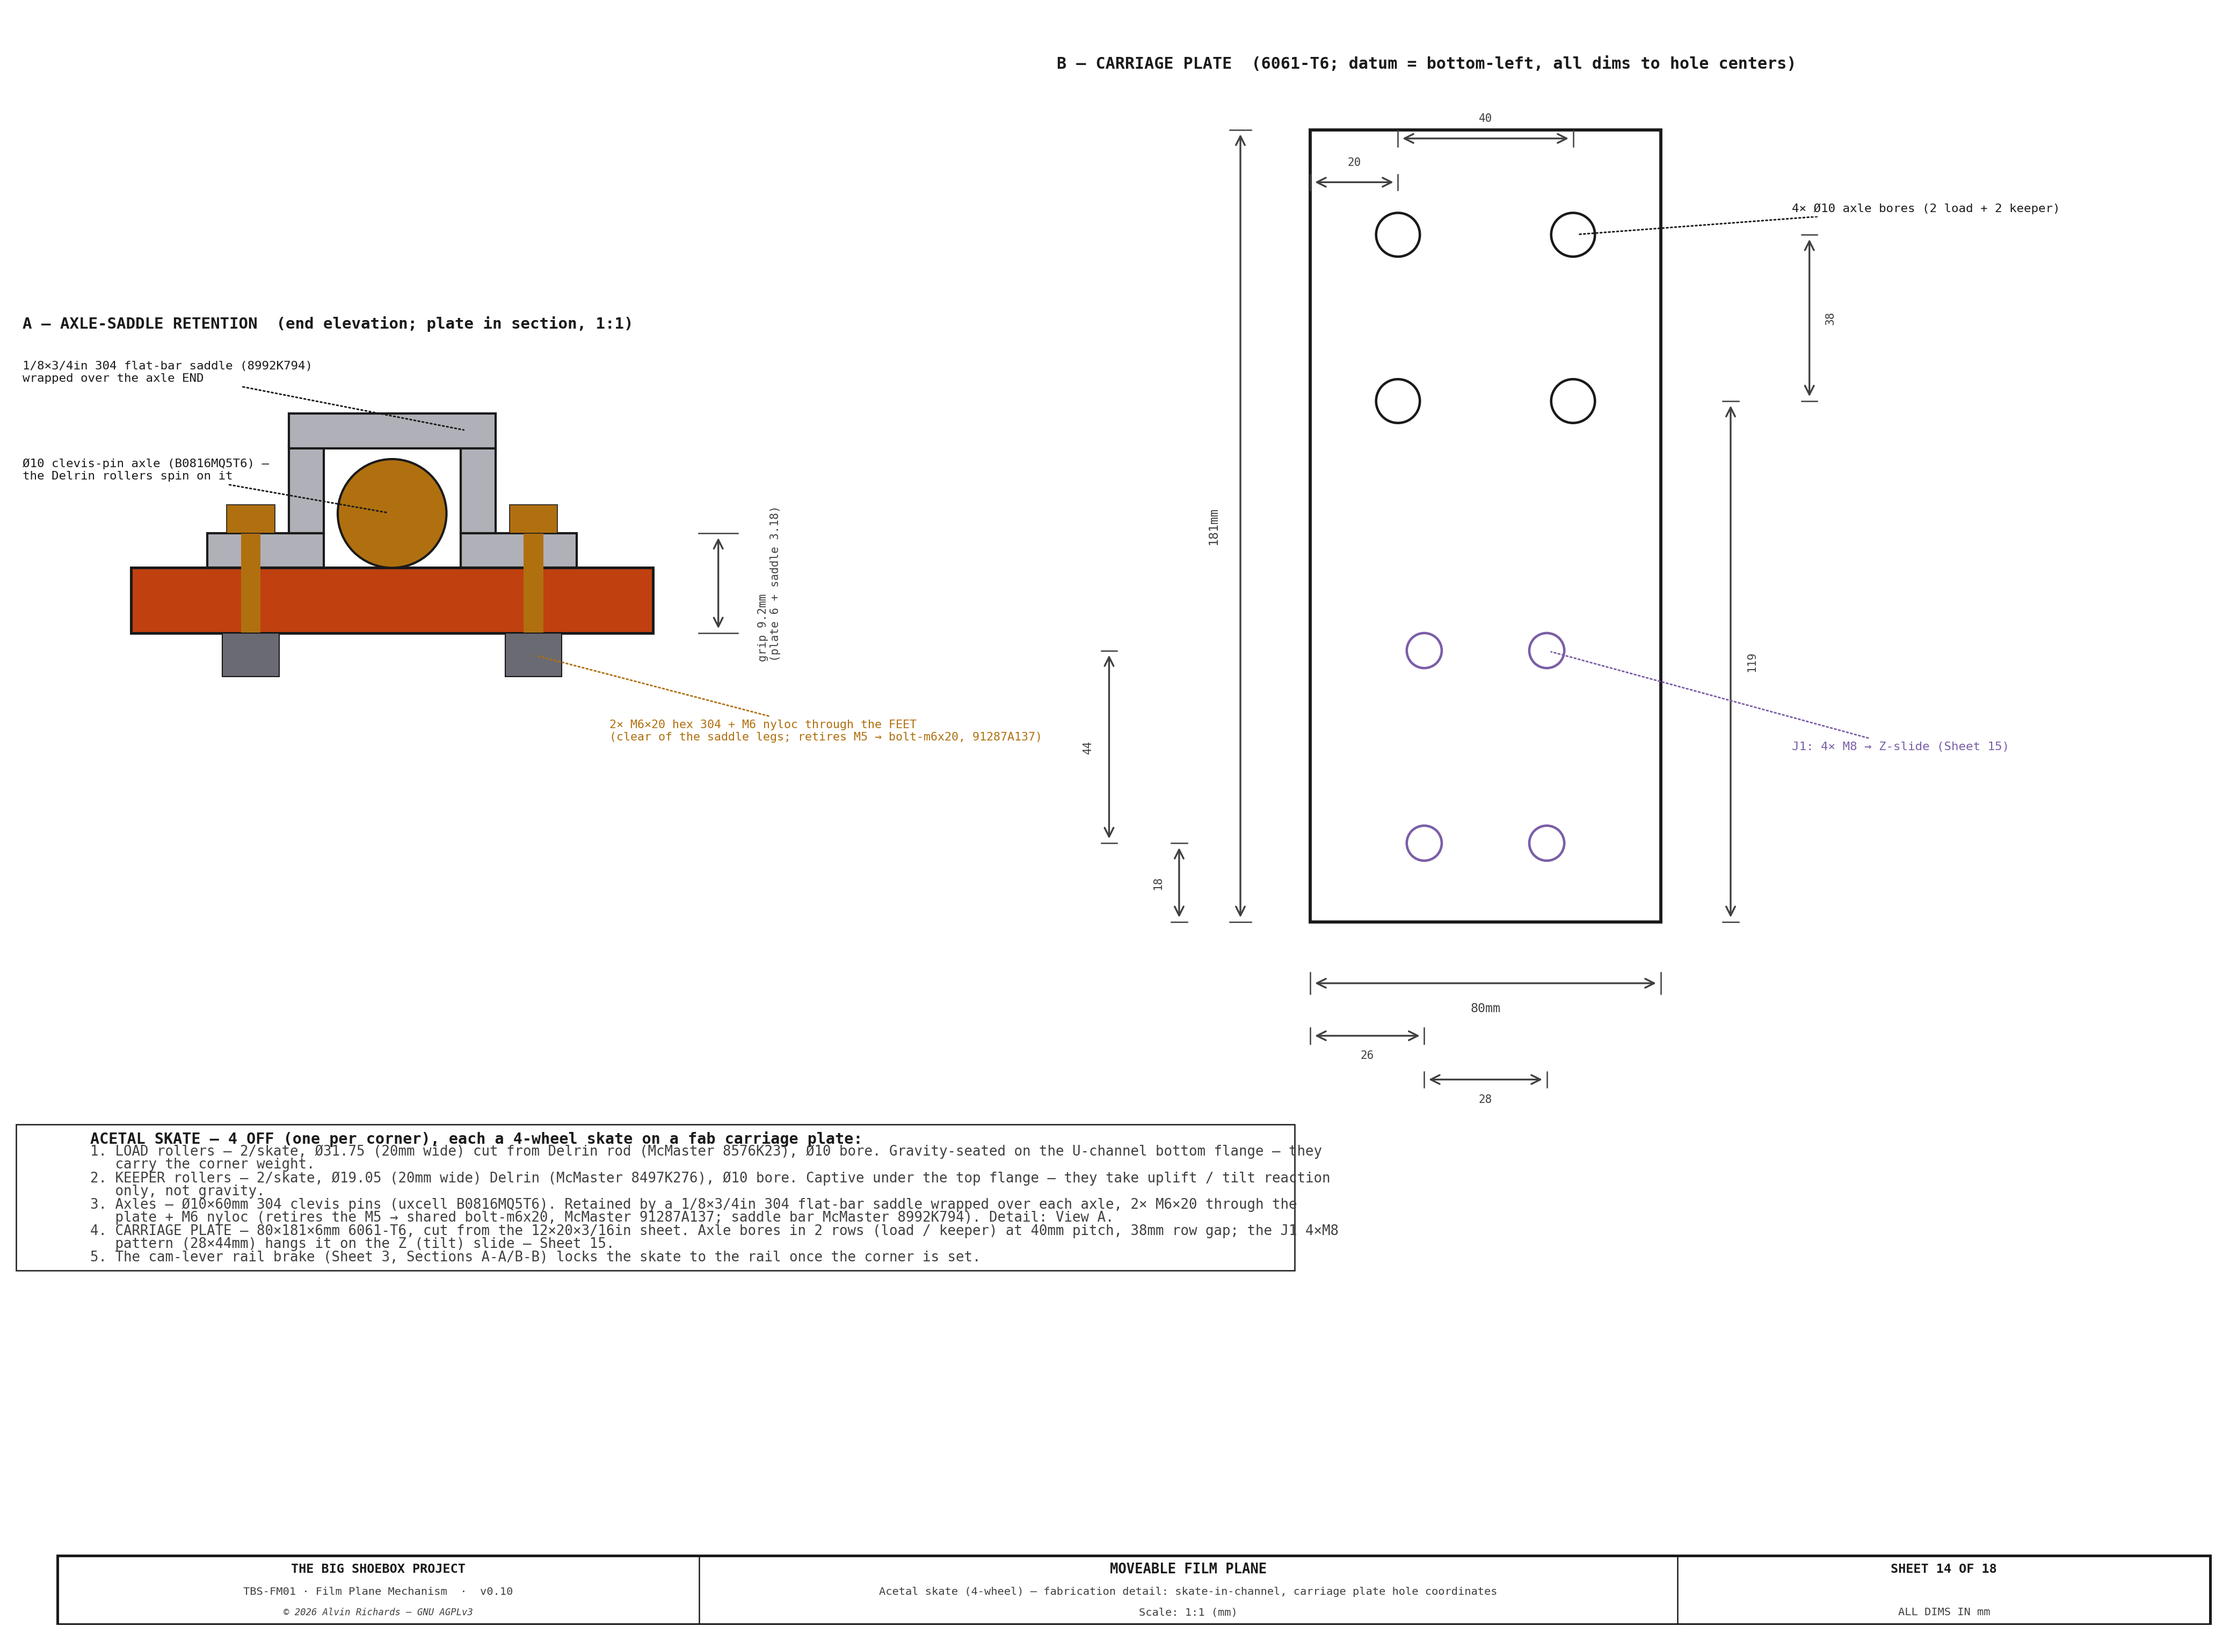
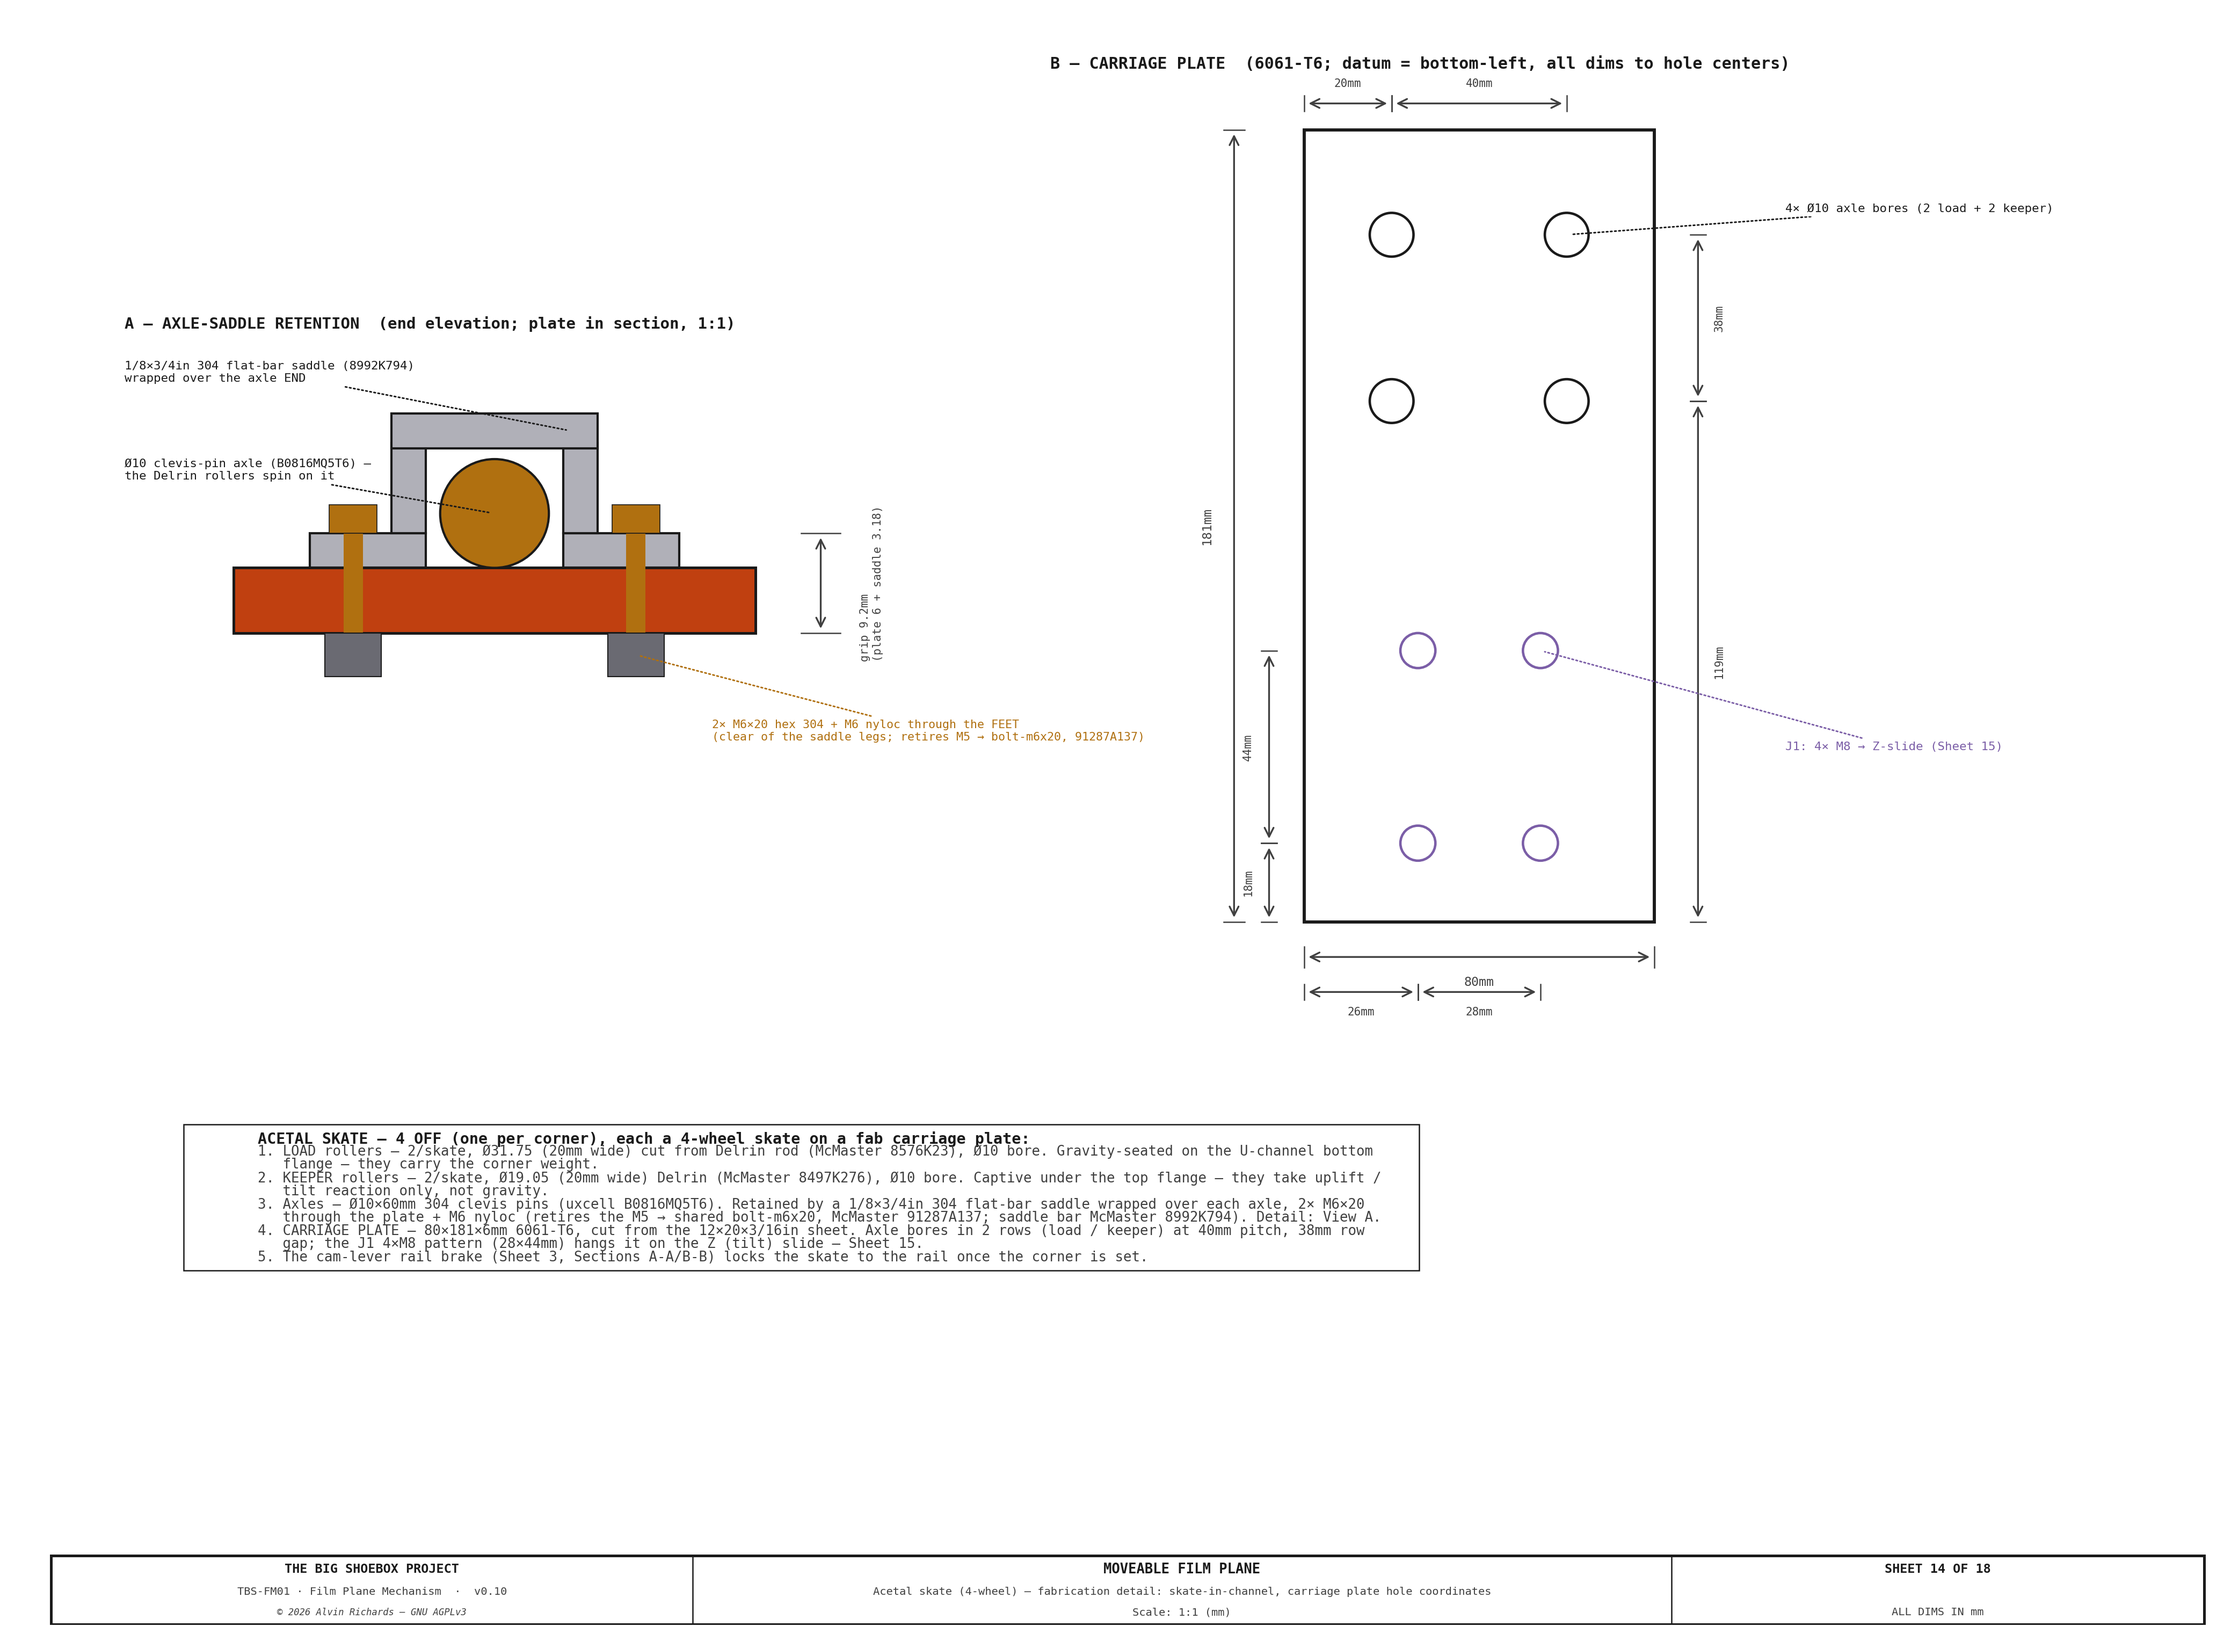
Tidy labels

diff --git a/src/generators/generate_film_plane_mechanism.py b/src/generators/generate_film_plane_mechanism.py
@@ -2617,7 +2617,7 @@ def sheet14():
 
     # ── View A — AXLE-SADDLE RETENTION (the fab detail Sheet 3 omits; carries the M6) ─
     axA = fig.add_axes([0.04, 0.36, 0.36, 0.54]); axA.set_aspect("equal"); axA.axis("off")
-    axA.set_xlim(-34, 46); axA.set_ylim(-11, 30)
+    axA.set_xlim(-44, 36); axA.set_ylim(-11, 30)
     r_ax = SKATE_AXLE_OD / 2                                          # Ø10 clevis-pin axle
     axA.add_patch(Rectangle((-24, 0), 48, CARRIAGE_PLATE_T, fc=C_CAR, ec=OUT, lw=1.2, zorder=3))     # carriage plate, edge-on
     az = CARRIAGE_PLATE_T + r_ax                                      # axle sits on the plate top
@@ -2656,18 +2656,18 @@ def sheet14():
         for dz in j1_rows:
             draw_circle(axB, dx, dz, 4, lw=1.1, color=C_SWING, zorder=5)
     # overall
-    draw_dim_h(axB, 0, PW, -14, f"{PW}mm", fs=5.6, font=FONT, above=False, offset=8)
+    draw_dim_h(axB, 0, PW, -8, f"{PW}mm", fs=5.6, font=FONT, above=False, offset=8)
     draw_dim_v(axB, -16, 0, PH, f"{PH}mm", fs=5.6, font=FONT, offset=8)
     # axle-bore hole coordinates — X (from left) + Y (from bottom) + row gap
-    draw_dim_h(axB, 0, ax_cols[0], zK2 + 12, f"{ax_cols[0]:.0f}", fs=5.0, font=FONT, offset=6)
-    draw_dim_h(axB, ax_cols[0], ax_cols[1], zK2 + 22, f"{SKATE_ROLLER_SP}", fs=5.0, font=FONT, offset=6)
-    draw_dim_v(axB, PW + 16, 0, zL2, f"{zL2:.0f}", fs=5.0, font=FONT, offset=6, right=True)
-    draw_dim_v(axB, PW + 34, zL2, zK2, f"{CARRIAGE_AXLE_ROW_SP}", fs=5.0, font=FONT, offset=6, right=True)
+    draw_dim_h(axB, 0, ax_cols[0], zK2 + 30, f"{ax_cols[0]:.0f}mm", fs=5.0, font=FONT, offset=6)
+    draw_dim_h(axB, ax_cols[0], ax_cols[1], zK2 + 30, f"{SKATE_ROLLER_SP}mm", fs=5.0, font=FONT, offset=6)
+    draw_dim_v(axB, PW + 10, 0, zL2, f"{zL2:.0f}mm", fs=5.0, font=FONT, offset=6, right=True)
+    draw_dim_v(axB, PW + 10, zL2, zK2, f"{CARRIAGE_AXLE_ROW_SP}mm", fs=5.0, font=FONT, offset=6, right=True)
     # J1 hole coordinates
-    draw_dim_h(axB, 0, j1_cols[0], -26, f"{j1_cols[0]:.0f}", fs=5.0, font=FONT, above=False, offset=6)
-    draw_dim_h(axB, j1_cols[0], j1_cols[1], -36, f"{CARRIAGE_J1_SP_YD}", fs=5.0, font=FONT, above=False, offset=6)
-    draw_dim_v(axB, -30, 0, j1_rows[0], f"{j1_rows[0]:.0f}", fs=5.0, font=FONT, offset=6)
-    draw_dim_v(axB, -46, j1_rows[0], j1_rows[1], f"{CARRIAGE_J1_SP_Z}", fs=5.0, font=FONT, offset=6)
+    draw_dim_h(axB, 0, j1_cols[0], -16, f"{j1_cols[0]:.0f}mm", fs=5.0, font=FONT, above=False, offset=6)
+    draw_dim_h(axB, j1_cols[0], j1_cols[1], -16, f"{CARRIAGE_J1_SP_YD}mm", fs=5.0, font=FONT, above=False, offset=6)
+    draw_dim_v(axB, -8, 0, j1_rows[0], f"{j1_rows[0]:.0f}mm", fs=5.0, font=FONT, offset=6)
+    draw_dim_v(axB, -8, j1_rows[0], j1_rows[1], f"{CARRIAGE_J1_SP_Z}mm", fs=5.0, font=FONT, offset=6)
     leader(axB, ax_cols[1], zK2, PW + 30, zK2 + 6, f"4× Ø{SKATE_AXLE_OD} axle bores (2 load + 2 keeper)", ha="left", fs=5.4, color=OUT, font=FONT, bbox=LBL_BG)
     leader(axB, j1_cols[1], j1_rows[1], PW + 30, zJ, "J1: 4× M8 → Z-slide (Sheet 15)", ha="left", fs=5.4, color=C_SWING, font=FONT, bbox=LBL_BG)
     axB.text(-58, PH + 14, "B — CARRIAGE PLATE  (6061-T6; datum = bottom-left, all dims to hole centers)", fontsize=7.2, fontweight="bold", color=OUT, ha="left", **FONT)
@@ -2687,7 +2687,7 @@ def sheet14():
         f"bores in 2 rows (load / keeper) at {SKATE_ROLLER_SP}mm pitch, {CARRIAGE_AXLE_ROW_SP}mm row gap; the J1 4×M8 pattern "
         f"({CARRIAGE_J1_SP_YD}×{CARRIAGE_J1_SP_Z}mm) hangs it on the Z (tilt) slide — Sheet 15.",
         "5. The cam-lever rail brake (Sheet 3, Sections A-A/B-B) locks the skate to the rail once the corner is set.",
-    ], 2, 98, 3.4, fs=6.2, title_fs=6.8, color=DIM, width=52, wrap=150, font=FONT)
+    ], 10, 98, 3.4, fs=6.2, title_fs=6.8, color=DIM, width=50, wrap=135, font=FONT)
 
     ax_tb = fig.add_axes([0.05, 0.012, 0.90, 0.052]); ax_tb.set_xlim(0, 1); ax_tb.set_ylim(0, 1); ax_tb.axis("off")
     title_block(ax_tb, "SHEET 14 OF 18", drawing_title="MOVEABLE FILM PLANE",
